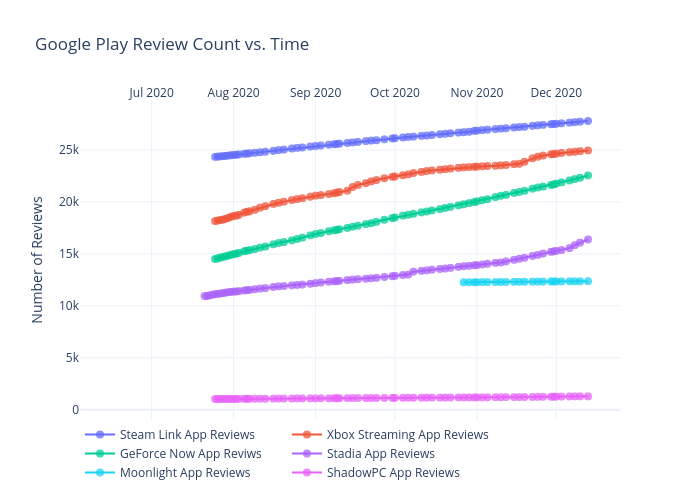
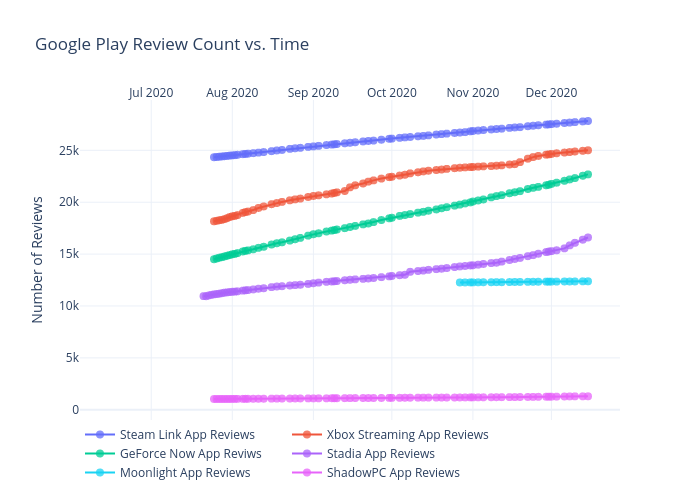
Add files via upload

diff --git a/googleplay/figure.js b/googleplay/figure.js
@@ -177,7 +177,8 @@ var figure = {
                 "27632",
                 "27676",
                 "27720",
-                "27788"
+                "27788",
+                "27827"
             ],
             "marker": {
                 "size": 8,
@@ -364,7 +365,8 @@ var figure = {
                 "24786",
                 "24832",
                 "24888",
-                "24953"
+                "24953",
+                "25003"
             ],
             "marker": {
                 "size": 8,
@@ -551,7 +553,8 @@ var figure = {
                 "22065",
                 "22196",
                 "22326",
-                "22551"
+                "22551",
+                "22680"
             ],
             "marker": {
                 "size": 8,
@@ -738,7 +741,8 @@ var figure = {
                 "15553",
                 "15840",
                 "16086",
-                "16389"
+                "16389",
+                "16602"
             ],
             "marker": {
                 "size": 8,
@@ -925,7 +929,8 @@ var figure = {
                 "12361",
                 "12360",
                 "12363",
-                "12375"
+                "12375",
+                "12377"
             ],
             "marker": {
                 "size": 8,
@@ -1112,7 +1117,8 @@ var figure = {
                 "1277",
                 "1285",
                 "1291",
-                "1292"
+                "1292",
+                "1295"
             ],
             "marker": {
                 "size": 8,
@@ -1131,8 +1137,8 @@ var figure = {
             "side": "top",
             "type": "date",
             "range": [
-                "2020-06-04 17:16:26.7623",
-                "2020-12-24 06:43:33.2377"
+                "2020-06-04 14:15:57.7263",
+                "2020-12-26 09:44:02.2737"
             ],
             "title": {
                 "text": ""
@@ -1142,8 +1148,8 @@ var figure = {
         "yaxis": {
             "type": "linear",
             "range": [
-                -1078.3803888419275,
-                29902.380388841928
+                -799.8997198225545,
+                29662.899719822555
             ],
             "title": {
                 "text": "Number of Reviews"
